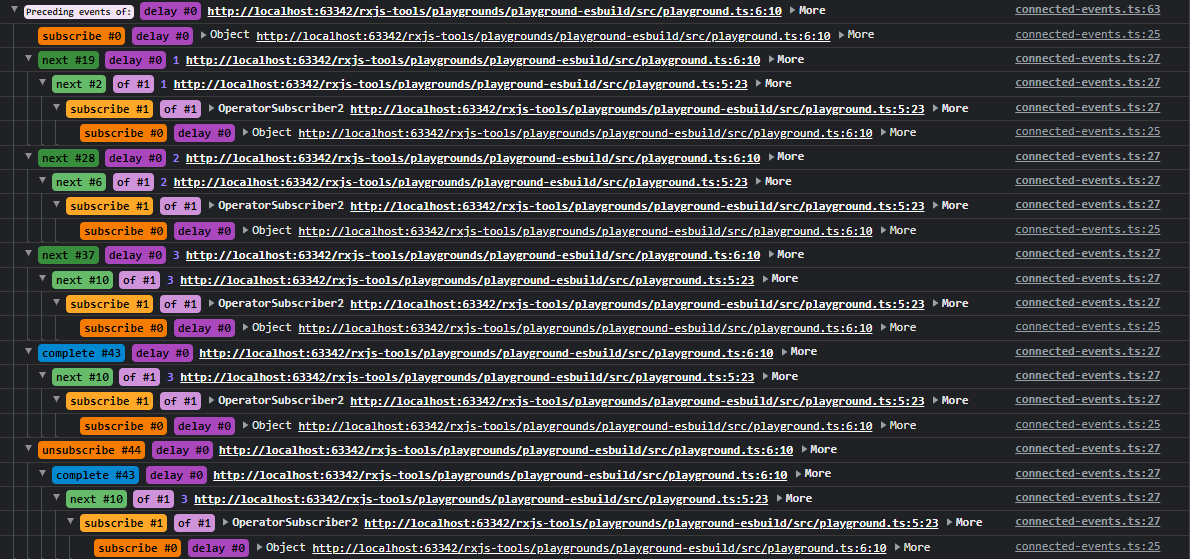
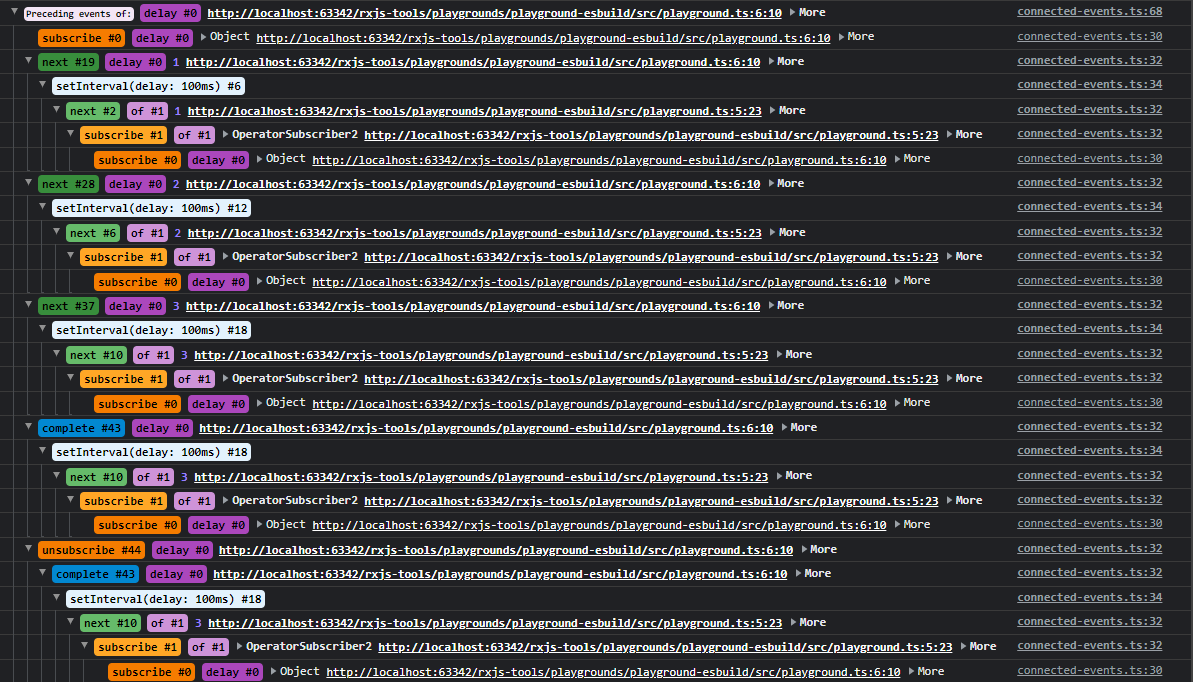
Fixed async tasks in connected events

diff --git a/packages/console/src/lib/connected-events.ts b/packages/console/src/lib/connected-events.ts
@@ -6,18 +6,23 @@ import {
   formatSubscriber,
   formatTask,
 } from './format';
+import { getPrecedingEvent } from './event-utils';
 
 function eventConnections(
   direction: 'Preceding' | 'Succeeding',
   getConnectedEvents: (event: Event) => Event[],
   event: Event,
-  target?: Observable | Subscriber
+  target?: Observable | Subscriber,
+  top = false
 ) {
   const source = direction === 'Preceding';
   const destination = direction === 'Succeeding';
+  const precedingEvent = getPrecedingEvent(event);
   const task =
-    event.task !== undefined && event.task !== event.precedingEvent?.task;
-  if (task && destination) {
+    precedingEvent !== undefined && event.task !== precedingEvent.task;
+  const outerTask = task && destination && !top;
+  const innerTask = task && source;
+  if (outerTask) {
     console.group(...formatTask(event.task));
   }
   const relatedEvents = getConnectedEvents(event);
@@ -25,18 +30,18 @@ function eventConnections(
     console.log(...formatEvent(event, event.target === target));
   } else {
     console.group(...formatEvent(event, event.target === target));
-    if (task && source) {
+    if (innerTask) {
       console.group(...formatTask(event.task));
     }
     for (const relatedEvent of relatedEvents) {
       eventConnections(direction, getConnectedEvents, relatedEvent, target);
     }
-    if (task && source) {
+    if (innerTask) {
       console.groupEnd();
     }
     console.groupEnd();
   }
-  if (task && destination) {
+  if (outerTask) {
     console.groupEnd();
   }
 }
@@ -67,7 +72,7 @@ export function subscriberConnectedEvents(
     console.log(...formatNothingToShow());
   } else {
     for (const event of events) {
-      eventConnections(direction, getConnectedEvents, event, subscriber);
+      eventConnections(direction, getConnectedEvents, event, subscriber, true);
     }
   }
   console.groupEnd();

diff --git a/packages/console/src/index.ts b/packages/console/src/index.ts
@@ -4,5 +4,5 @@ export { inspectEventsFlow } from './lib/inspect-events-flow';
 export { inspectPrecedingEvents } from './lib/preceding-events';
 export { inspectSources } from './lib/sources';
 export { inspect } from './lib/info';
-export { inspectSubscribers } from './lib/inspectSubscribers';
+export { inspectSubscribers } from './lib/inspect-subscribers';
 export { inspectSucceedingEvents } from './lib/inspect-succeeding-events';

diff --git a/packages/console/src/lib/menu.ts b/packages/console/src/lib/menu.ts
@@ -7,7 +7,7 @@ import {
 import {
   subscriberSubscribers,
   observableSubscribers,
-} from './inspectSubscribers';
+} from './inspect-subscribers';
 import { subscriberSources, observableSources } from './sources';
 import {
   eventPrecedingEvents,
